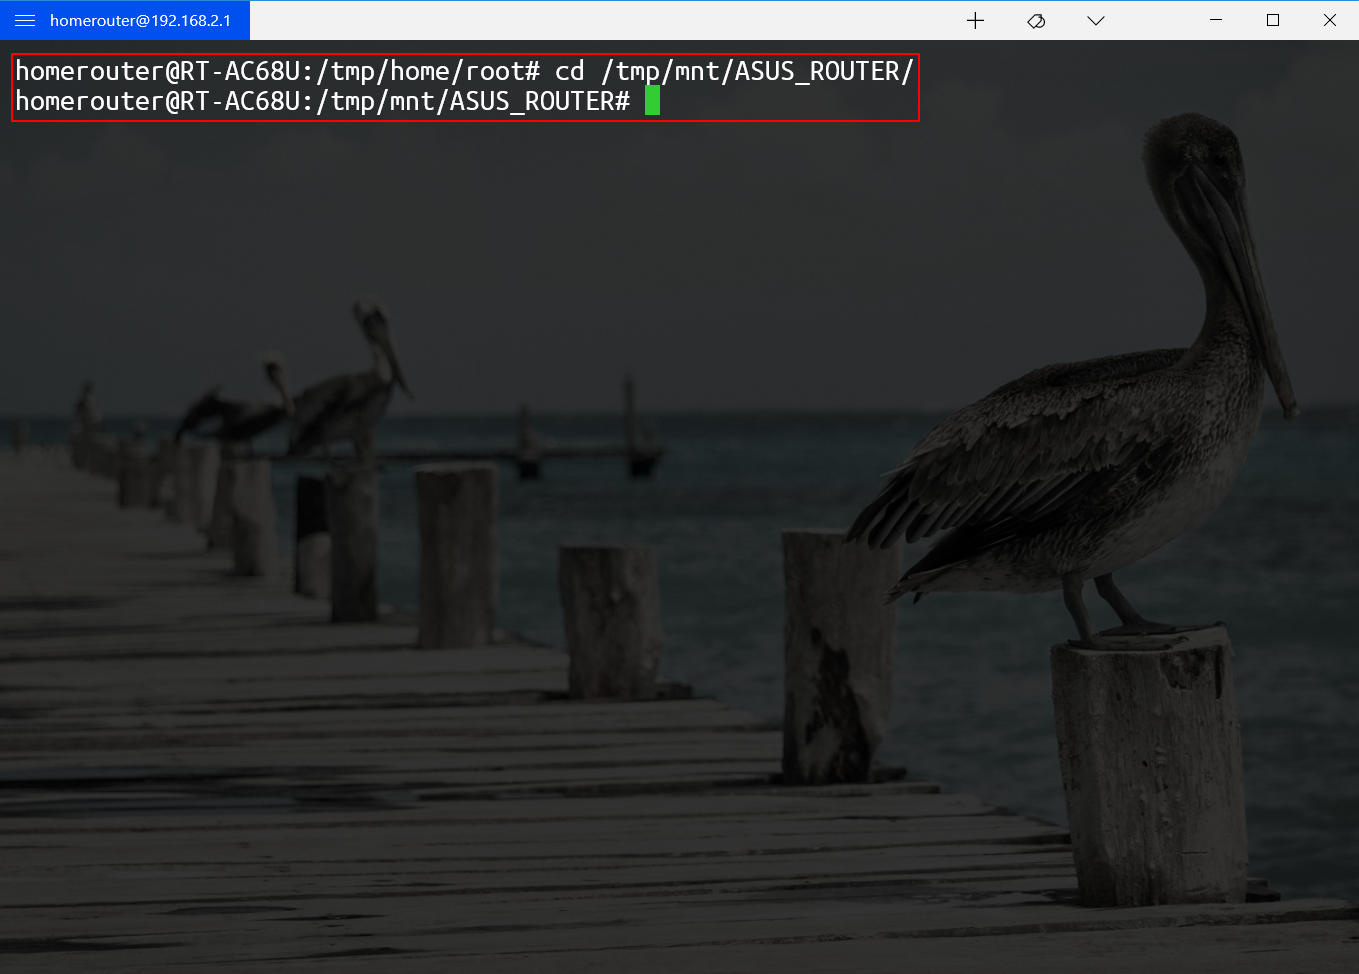
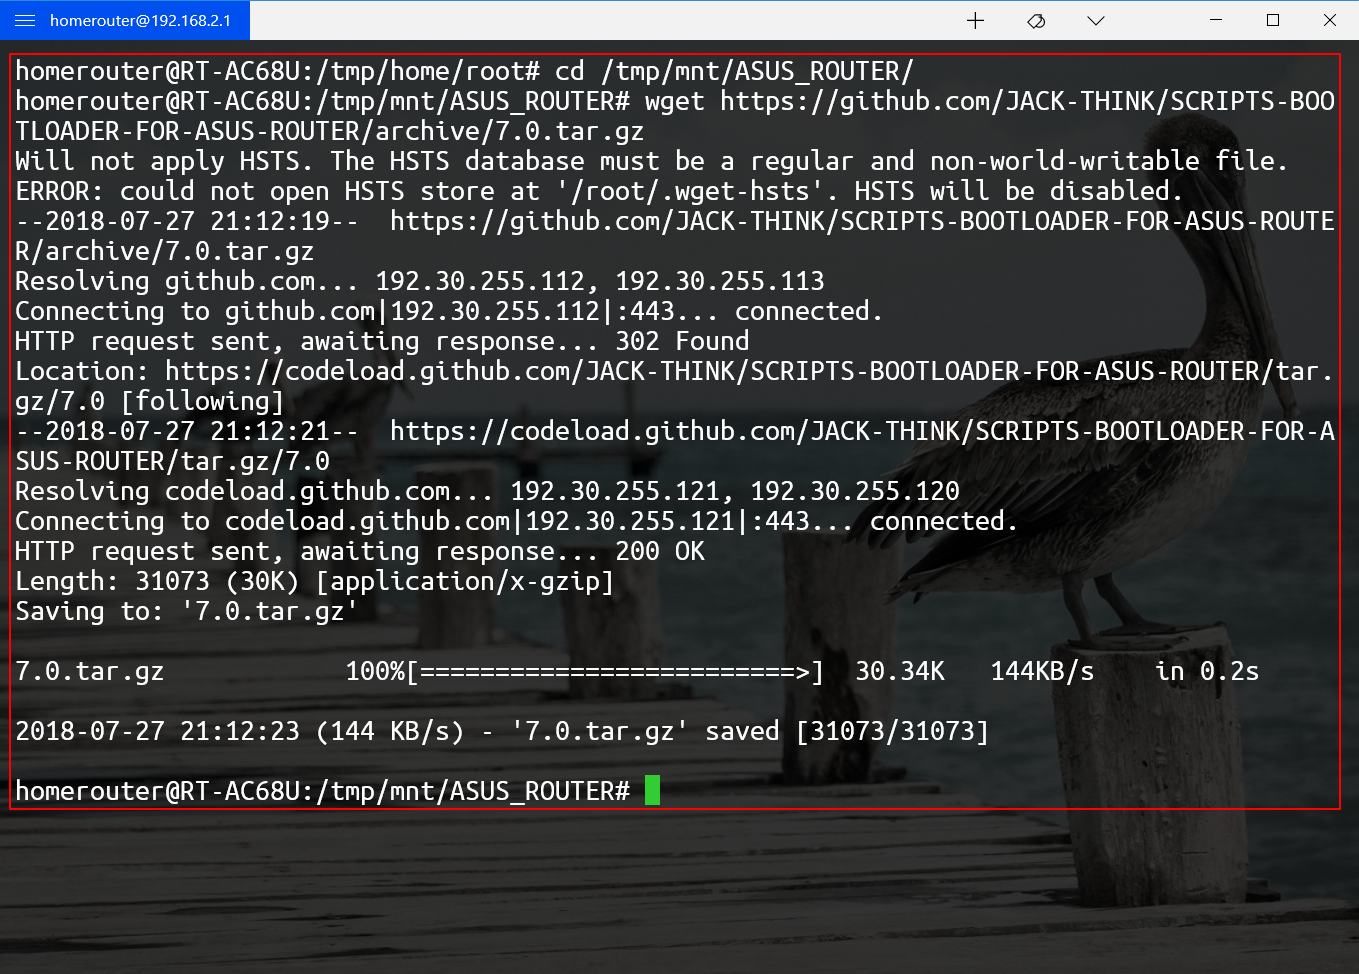
Update How_to_Use.md

diff --git a/How_to_Use.md b/How_to_Use.md
@@ -258,13 +258,15 @@
 
    ![step9](./Documents_Assets/How_to_Use/pre-install/step9.png)
 
-10. 路由器重启后，重新用ssh登陆路由器后台，使用scp将文件`SCRIPTS-BOOTLOADER-FOR-ASUS-ROUTER-N.N.tar.gz`上传至路由器`/tmp/mnt/ASUS_ROUTER/`目录中（`N.N`是版本号，请自己替换成所下载的版本号）
+10. 路由器重启后，执行`cd /tmp/mnt/ASUS_ROUTER/`，进入该目录
 
-11. 执行`cd /tmp/mnt/ASUS_ROUTER/`，进入该目录
+    ![step10](./Documents_Assets/How_to_Use/pre-install/step10.png)
+
+11. 执行`wget https://github.com/JACK-THINK/SCRIPTS-BOOTLOADER-FOR-ASUS-ROUTER/archive/N.N.tar.gz`，下载安装包（`N.N`是版本号，请自己替换成所下载的版本号）
 
     ![step11](./Documents_Assets/How_to_Use/pre-install/step11.png)
 
-12. 执行`tar xzvf SCRIPTS-BOOTLOADER-FOR-ASUS-ROUTER-N.N.tar.gz`，将全部文件解压（`N.N`是版本号，请自己替换成所下载的版本号）
+12. 执行`tar xzvf N.N.tar.gz`，将全部文件解压（`N.N`是版本号，请自己替换成所下载的版本号）
 
     ![step12](./Documents_Assets/How_to_Use/pre-install/step12.png)
 
